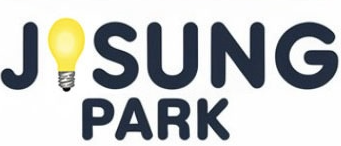
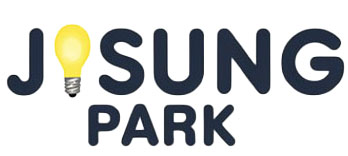
로고 수정 및 링크화면 수정

diff --git a/templates/base.html b/templates/base.html
@@ -4,6 +4,11 @@
   <head>
     <meta charset="UTF-8" />
     <meta name="viewport" content="width=device-width, initial-scale=1.0, maximum-scale=1" />
+    <meta property="og:title" content="지성Park">
+    <meta property="og:description" content="지금 가장 가까운 주차장은 어디? 실시간 주차 정보 제공!">
+    <meta property="og:image" content="{{ request.scheme }}://{{ request.get_host }}{% static 'img/jisungpark3.png' %}">
+    <meta property="og:url" content="https://www.jisungpark.co.kr">
+    <meta property="og:type" content="website">
     <link href="https://cdn.jsdelivr.net/npm/remixicon/fonts/remixicon.css" rel="stylesheet">
     <link rel="stylesheet" href="{%static 'css/reset.css'%}">  
     <link rel="stylesheet" href="{%static 'css/layout.css'%}"> 
@@ -15,7 +20,7 @@
     <div class="container">
         <header>
             <div class="logo">
-              <a href="{% url 'demos:home' %}"><img src="{% static 'img/jisungpark1.png' %}" alt="jisungpark" style="display:flex;" width="75">
+              <a href="{% url 'demos:home' %}"><img src="{% static 'img/jisungpark4.png' %}" alt="jisungpark" style="display:flex;" width="75">
               </a>
             </div>
             <div class="header-nav">

diff --git a/config/settings.py b/config/settings.py
@@ -124,14 +124,14 @@ ASGI_APPLICATION = 'config.asgi.application'
 # https://docs.djangoproject.com/en/5.1/ref/settings/#databases
 
 #✔‼📢📢📢📢📢📢호스팅 할 때는 주석 처리하고 올려줘요
-'''DATABASES = {
+DATABASES = {
     'default': {
         'ENGINE': 'django.db.backends.sqlite3',
         'NAME': BASE_DIR / 'db.sqlite3',
     }
-}'''
+}
 #‼✔✔✔📢📢📢📢📢📢호스팅 할 때는 주석 처리 풀어줘요
-DATABASES = {
+'''DATABASES = {
     'default': {
         'ENGINE': 'django.db.backends.mysql',
         'NAME': 'jisungpark',
@@ -140,7 +140,7 @@ DATABASES = {
         'HOST': (f"{DB_NAME}"),
         'PORT': '3306'
     }
-}
+}'''
 # Password validation
 # https://docs.djangoproject.com/en/5.1/ref/settings/#auth-password-validators
 
